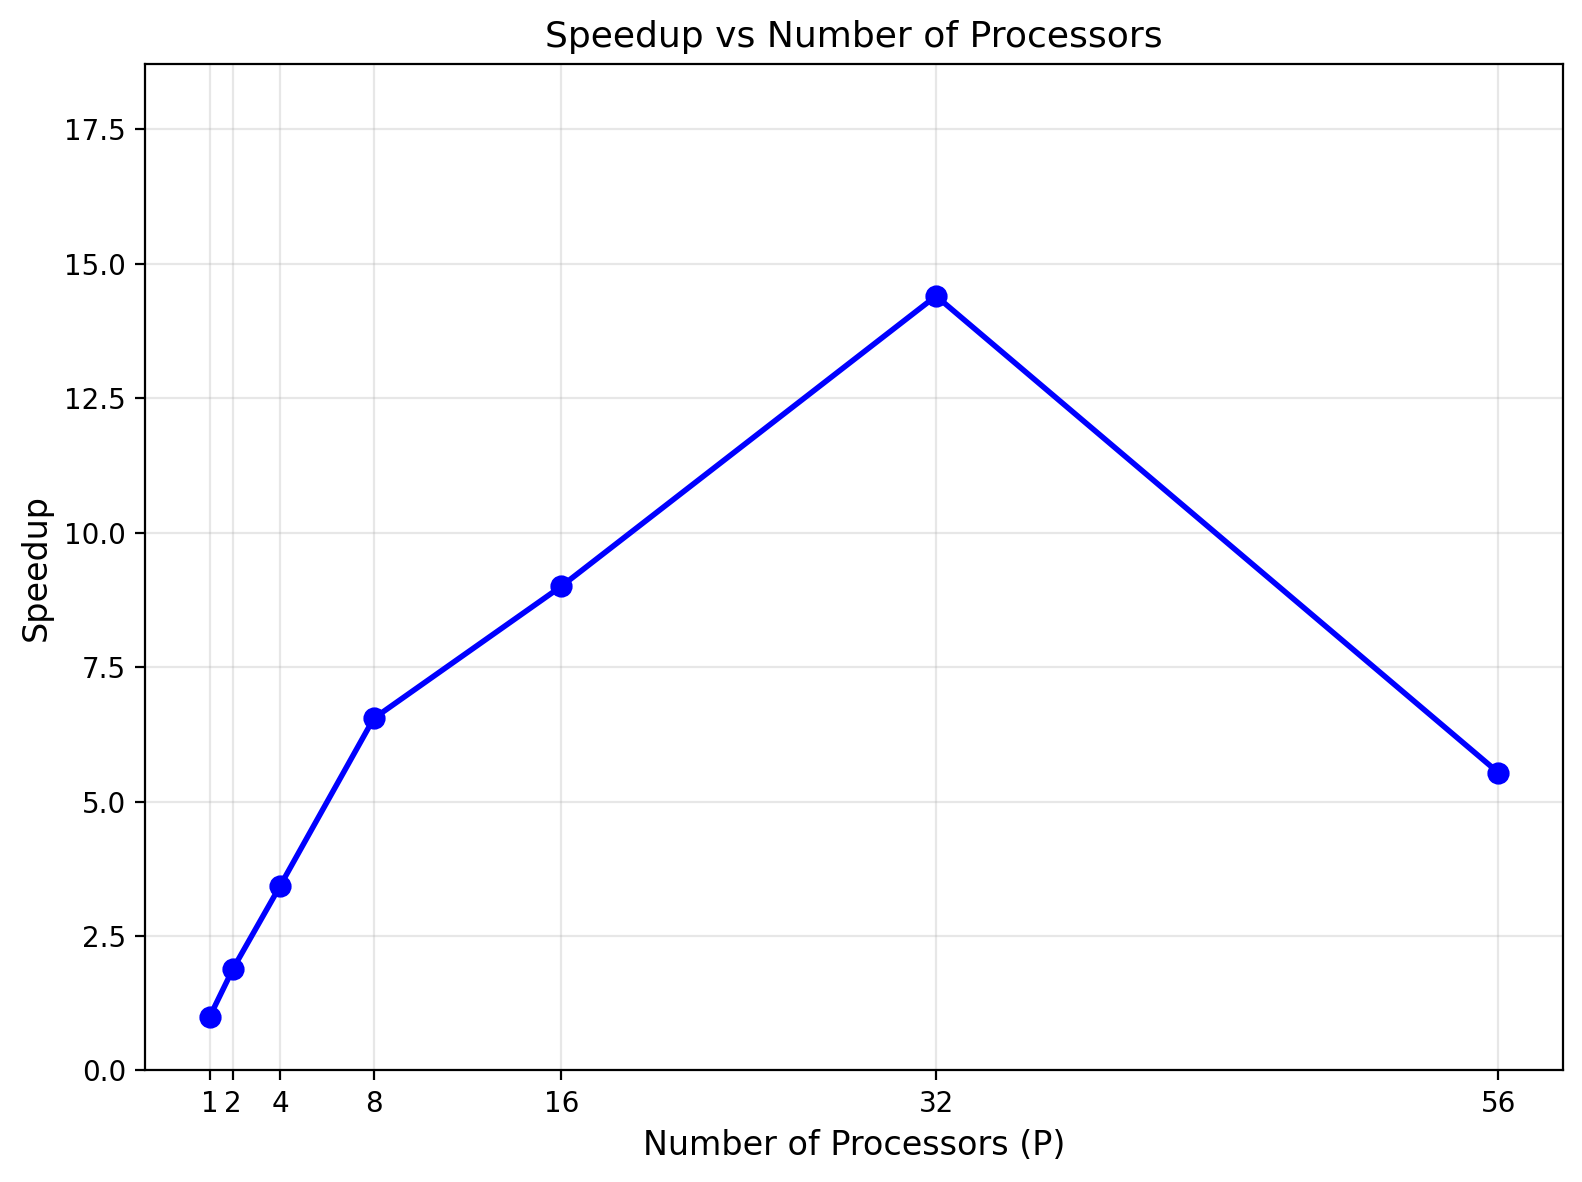
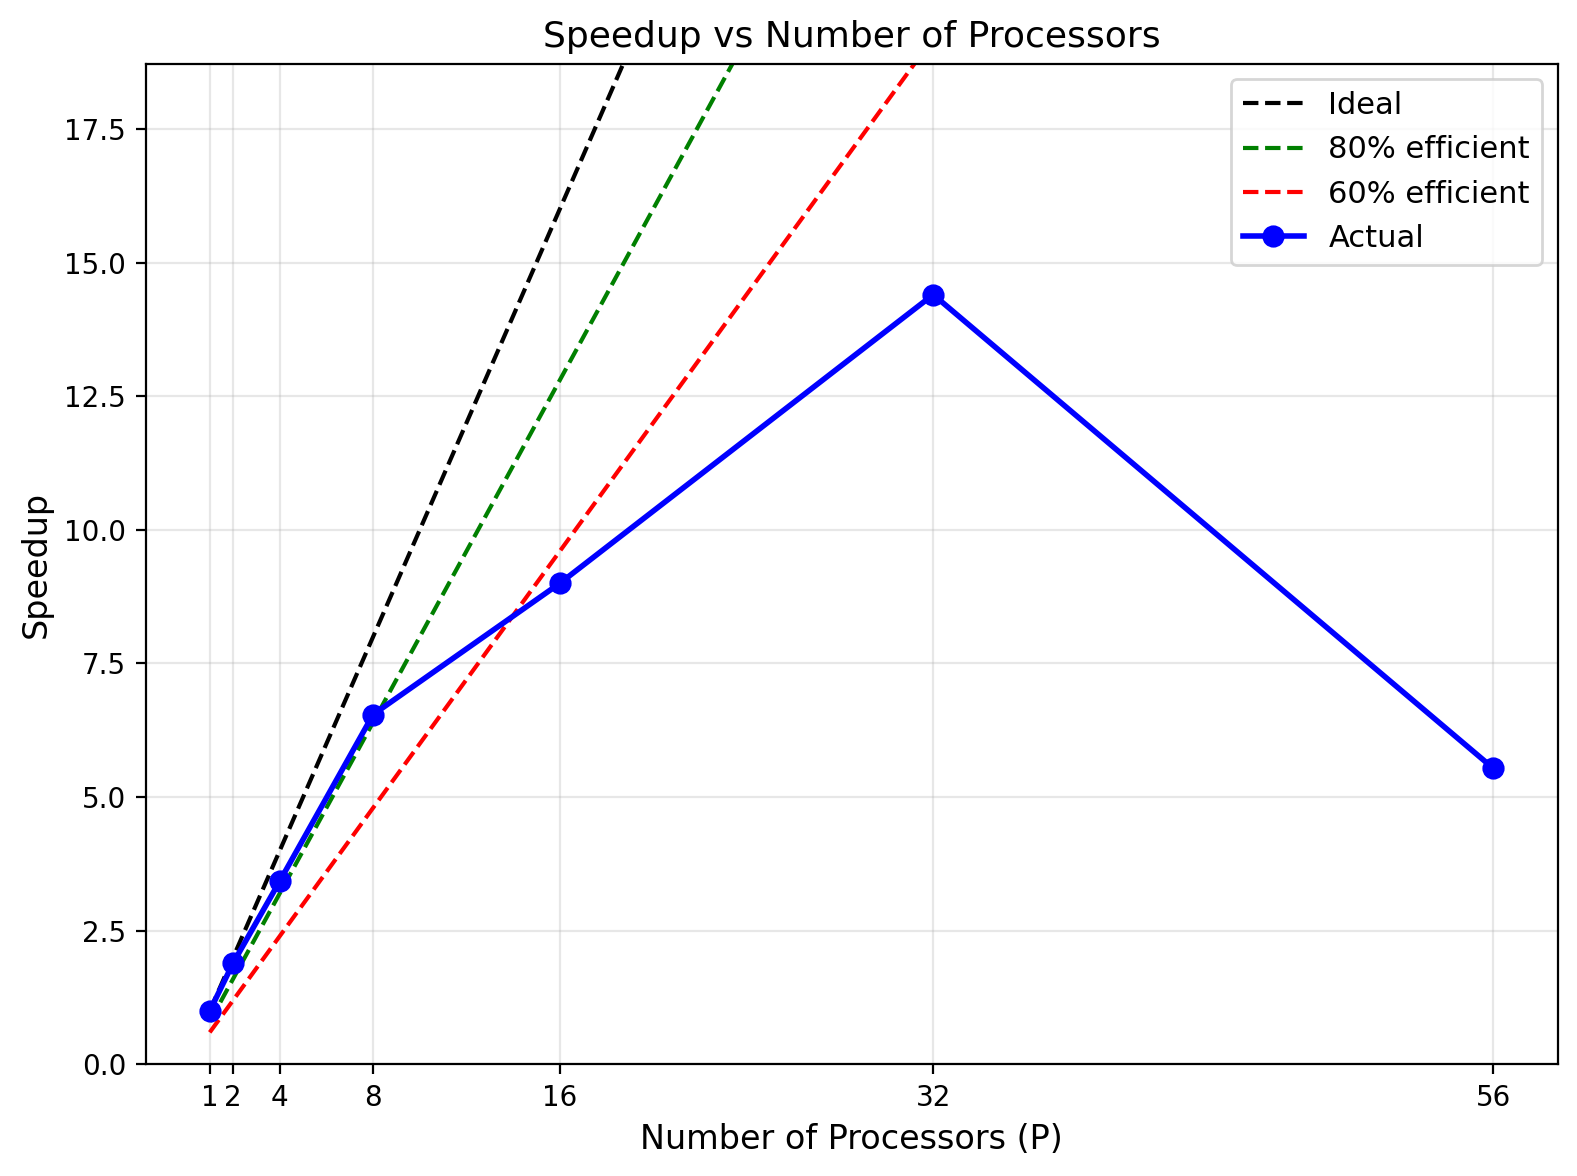
fixed speedup plot

diff --git a/openfoam3/parallel_analysis.py b/openfoam3/parallel_analysis.py
@@ -66,7 +66,11 @@ print(f"Run:     t = 0 to 0.3 s, maxCo = 0.2, {STEPS} time steps")
 # -----------------------------------------------------------------------
 fig, ax = plt.subplots(figsize=(8, 6))
 
-ax.plot(P_arr, speedup, 'b-o', lw=2, ms=7)
+P_ref = np.array([1, 2, 4, 8, 16, 32, 56], dtype=float)
+ax.plot(P_ref, P_ref,         'k--', lw=1.5, label='Ideal')
+ax.plot(P_ref, 0.80 * P_ref, 'g--', lw=1.5, label='80% efficient')
+ax.plot(P_ref, 0.60 * P_ref, 'r--', lw=1.5, label='60% efficient')
+ax.plot(P_arr, speedup, 'b-o', lw=2, ms=7, label='Actual')
 
 ax.set_xlabel('Number of Processors (P)', fontsize=12)
 ax.set_ylabel('Speedup', fontsize=12)
@@ -74,6 +78,7 @@ ax.set_title('Speedup vs Number of Processors', fontsize=13)
 ax.set_xticks([1, 2, 4, 8, 16, 32, 56])
 ax.set_ylim(0, max(speedup) * 1.3)
 ax.grid(True, alpha=0.3)
+ax.legend(fontsize=11)
 
 plt.tight_layout()
 out_path = os.path.join(BASE, "speedup_plot.png")
